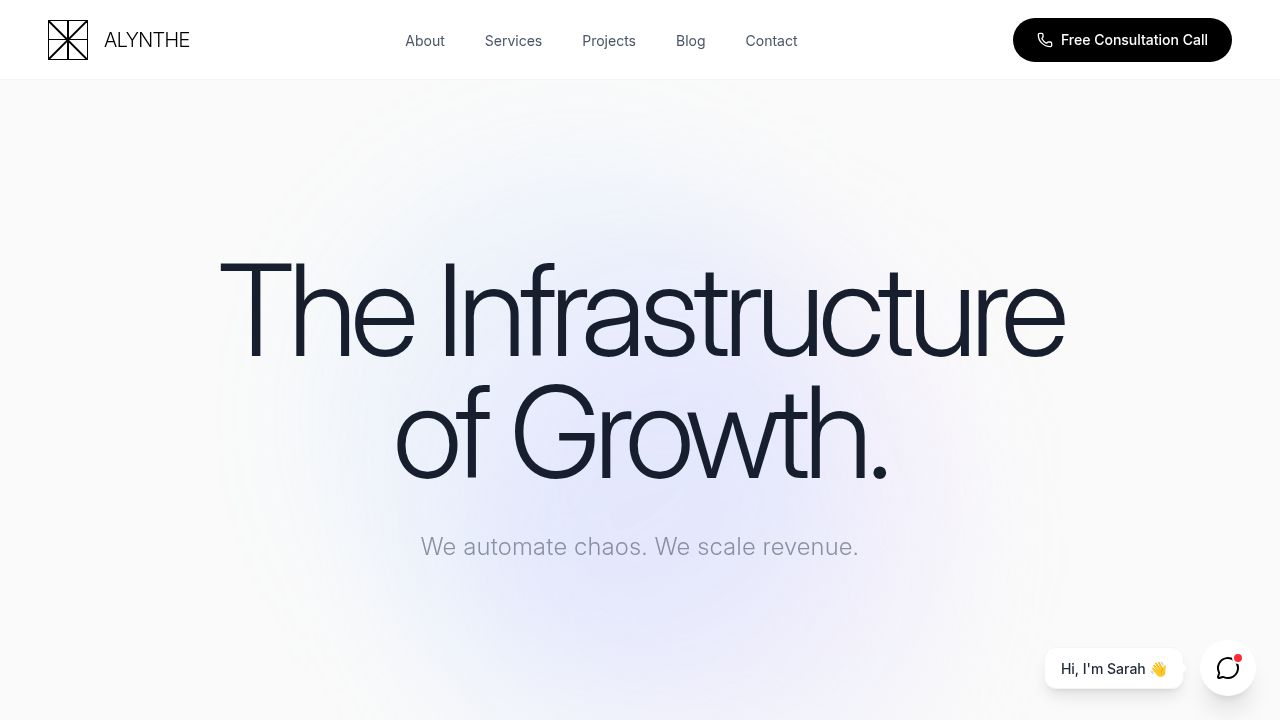
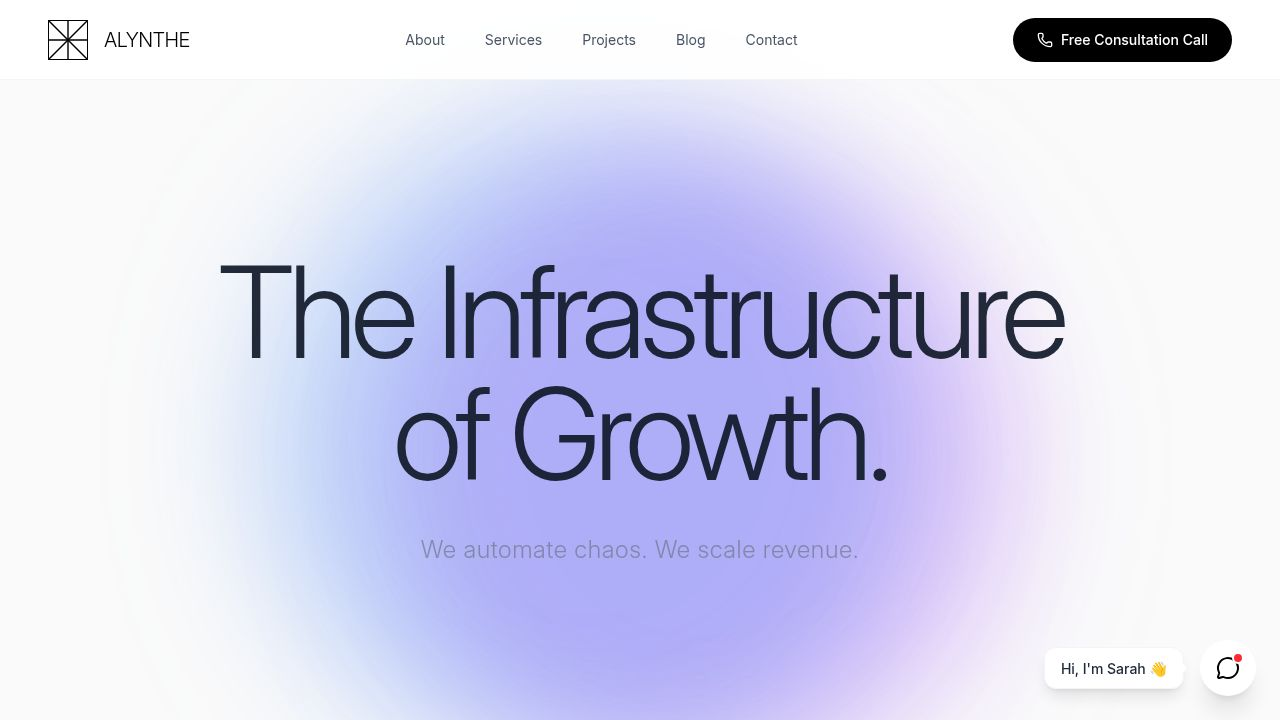
Improve homepage hero background animation and footer contact details
Update Hero section with a moving mesh gradient background and adjust footer to display precise address and contact information.

Replit-Commit-Author: Agent
Replit-Commit-Session-Id: b2e82653-4e55-471f-8107-0bf9db49501e
Replit-Commit-Checkpoint-Type: full_checkpoint
Replit-Commit-Event-Id: 4f381fbb-ccef-4b4b-93f0-41b1e2bc06eb
Replit-Commit-Screenshot-Url: https://storage.googleapis.com/screenshot-production-us-central1/676f23e3-63f4-4cf5-9c40-162f35f686a6/b2e82653-4e55-471f-8107-0bf9db49501e/aFFQkBG
Replit-Helium-Checkpoint-Created: true

diff --git a/client/src/components/sections/Hero.tsx b/client/src/components/sections/Hero.tsx
@@ -3,11 +3,10 @@ import { motion } from "framer-motion";
 export function Hero() {
   return (
     <section className="relative min-h-screen flex items-center justify-center overflow-hidden pt-20 bg-[#FAFAFA]">
-      {/* Aurora Gradient Background */}
+      {/* Moving Mesh Gradient Background */}
       <div className="absolute inset-0 z-0 overflow-hidden">
-        <div className="absolute top-[-10%] left-[-10%] w-[70vw] h-[70vw] bg-[#2563EB] rounded-full mix-blend-multiply filter blur-3xl opacity-20 animate-blob" />
-        <div className="absolute top-[-10%] right-[-10%] w-[70vw] h-[70vw] bg-[#C084FC] rounded-full mix-blend-multiply filter blur-3xl opacity-20 animate-blob animation-delay-2000" />
-        <div className="absolute -bottom-[20%] left-[20%] w-[70vw] h-[80vw] bg-[#22D3EE] rounded-full mix-blend-multiply filter blur-3xl opacity-20 animate-blob animation-delay-4000" />
+        <div className="absolute top-[20%] left-[20%] w-[50vw] h-[50vw] bg-[#3B82F6] rounded-full mix-blend-multiply filter blur-3xl opacity-30 animate-blob" />
+        <div className="absolute top-[20%] right-[20%] w-[50vw] h-[50vw] bg-[#A855F7] rounded-full mix-blend-multiply filter blur-3xl opacity-30 animate-blob animation-delay-2000" />
       </div>
 
       <div className="container mx-auto px-6 relative z-10 text-center">
@@ -35,19 +34,16 @@ export function Hero() {
 
       <style>{`
         @keyframes blob {
-          0% { transform: translate(0px, 0px) scale(1) rotate(0deg); }
-          33% { transform: translate(30px, -50px) scale(1.1) rotate(10deg); }
-          66% { transform: translate(-20px, 20px) scale(0.9) rotate(-5deg); }
-          100% { transform: translate(0px, 0px) scale(1) rotate(0deg); }
+          0% { transform: translate(0px, 0px) scale(1); }
+          33% { transform: translate(30px, -50px) scale(1.1); }
+          66% { transform: translate(-20px, 20px) scale(0.9); }
+          100% { transform: translate(0px, 0px) scale(1); }
         }
         .animate-blob {
-          animation: blob 20s infinite alternate;
+          animation: blob 7s infinite;
         }
         .animation-delay-2000 {
-          animation-delay: 4s;
-        }
-        .animation-delay-4000 {
-          animation-delay: 8s;
+          animation-delay: 2s;
         }
       `}</style>
     </section>

diff --git a/client/src/components/layout/Footer.tsx b/client/src/components/layout/Footer.tsx
@@ -35,7 +35,7 @@ export default function Footer() {
 
           {/* Address Column */}
           <div className="md:col-span-3 md:col-start-6 flex flex-col gap-6">
-            <h4 className="text-sm font-semibold text-gray-900 uppercase tracking-widest">Indianapolis</h4>
+            <h4 className="text-sm font-bold text-gray-900">Office Address:</h4>
             <p className="text-base text-gray-500 font-light leading-relaxed">
               1438 Spann Ave,<br />
               Indianapolis, IN 46203,<br />
@@ -45,13 +45,16 @@ export default function Footer() {
 
           {/* Connect Column */}
           <div className="md:col-span-2 md:col-start-9 flex flex-col gap-6">
-            <h4 className="text-sm font-semibold text-gray-900 uppercase tracking-widest">Contact</h4>
-            <div className="flex flex-col gap-2">
-              <a href="mailto:alyntheinfo@gmail.com" className="text-base text-gray-500 hover:text-black transition-colors font-light">
-                alyntheinfo@gmail.com
-              </a>
+            <div className="flex flex-col gap-1">
+              <h4 className="text-sm font-bold text-gray-900">Contact Phone:</h4>
               <a href="tel:+19293508374" className="text-base text-gray-500 hover:text-black transition-colors font-light">
                 +1 929 350 8374
+              </a>
+            </div>
+            <div className="flex flex-col gap-1">
+              <h4 className="text-sm font-bold text-gray-900">Contact Email:</h4>
+              <a href="mailto:alyntheinfo@gmail.com" className="text-base text-gray-500 hover:text-black transition-colors font-light">
+                alyntheinfo@gmail.com
               </a>
             </div>
             <div className="flex gap-3 mt-2">
